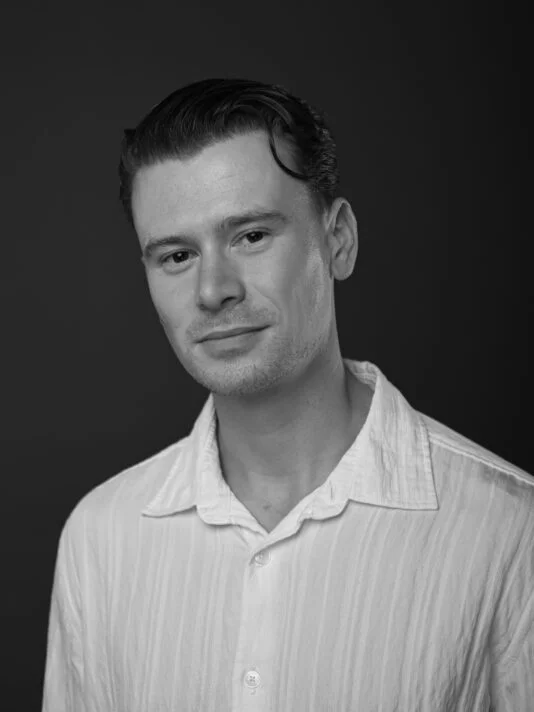
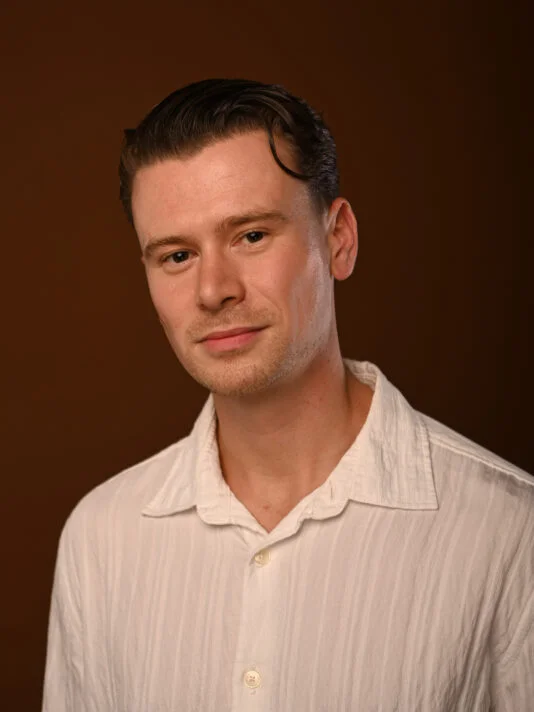
Teamfoto's in kleur met warme overloop; groepsfoto in het blok 'Over ons' op de homepage
Claude-Session: https://claude.ai/code/session_01KocCgPKT4g2BpPCydCdPMz

diff --git a/src/routes/over-loopwerk.tsx b/src/routes/over-loopwerk.tsx
@@ -138,7 +138,7 @@ function OverLoopwerk() {
               <div className="flip-scene aspect-[3/4] w-full" tabIndex={0}>
                 <div className="flip-inner h-full w-full">
                   {teamPhotos.includes(member.photo) ? (
-                    <div className="flip-face absolute inset-0 overflow-hidden rounded-2xl border border-line bg-ink-hero">
+                    <div className="flip-face absolute inset-0 overflow-hidden rounded-2xl border border-line bg-[#2b1a10]">
                       <img
                         src={`/team/${member.photo}`}
                         alt={`${member.name}, ${member.role.toLowerCase()} LoopWerk`}
@@ -146,7 +146,7 @@ function OverLoopwerk() {
                         className="absolute inset-0 h-full w-full object-cover object-top"
                       />
                       <div
-                        className="absolute inset-x-0 bottom-0 h-2/5 bg-gradient-to-t from-ink-hero/90 via-ink-hero/40 to-transparent"
+                        className="absolute inset-x-0 bottom-0 h-2/5 bg-gradient-to-t from-[#1c110a]/90 via-[#1c110a]/40 to-transparent"
                         aria-hidden="true"
                       />
                       <div className="absolute inset-x-0 bottom-0 p-6">

diff --git a/src/routes/index.tsx b/src/routes/index.tsx
@@ -348,9 +348,19 @@ function Index() {
             </div>
           </Reveal>
           <Reveal delay={0.1}>
-            <p className="hand text-3xl text-sage">
-              Vertel wat er nu handmatig gaat, dan zeggen wij of er iets te winnen valt.
-            </p>
+            <figure>
+              <img
+                src="/team/team-groep.webp"
+                alt="Shaquil Reyes, Levi Kempen en Gianni Geurtjens, de oprichters van LoopWerk"
+                width={534}
+                height={357}
+                loading="lazy"
+                className="aspect-[3/2] w-full rounded-2xl object-cover"
+              />
+              <figcaption className="hand mt-5 text-2xl leading-snug text-sage md:text-3xl">
+                Vertel wat er nu handmatig gaat, dan zeggen wij of er iets te winnen valt.
+              </figcaption>
+            </figure>
           </Reveal>
         </div>
       </Section>
